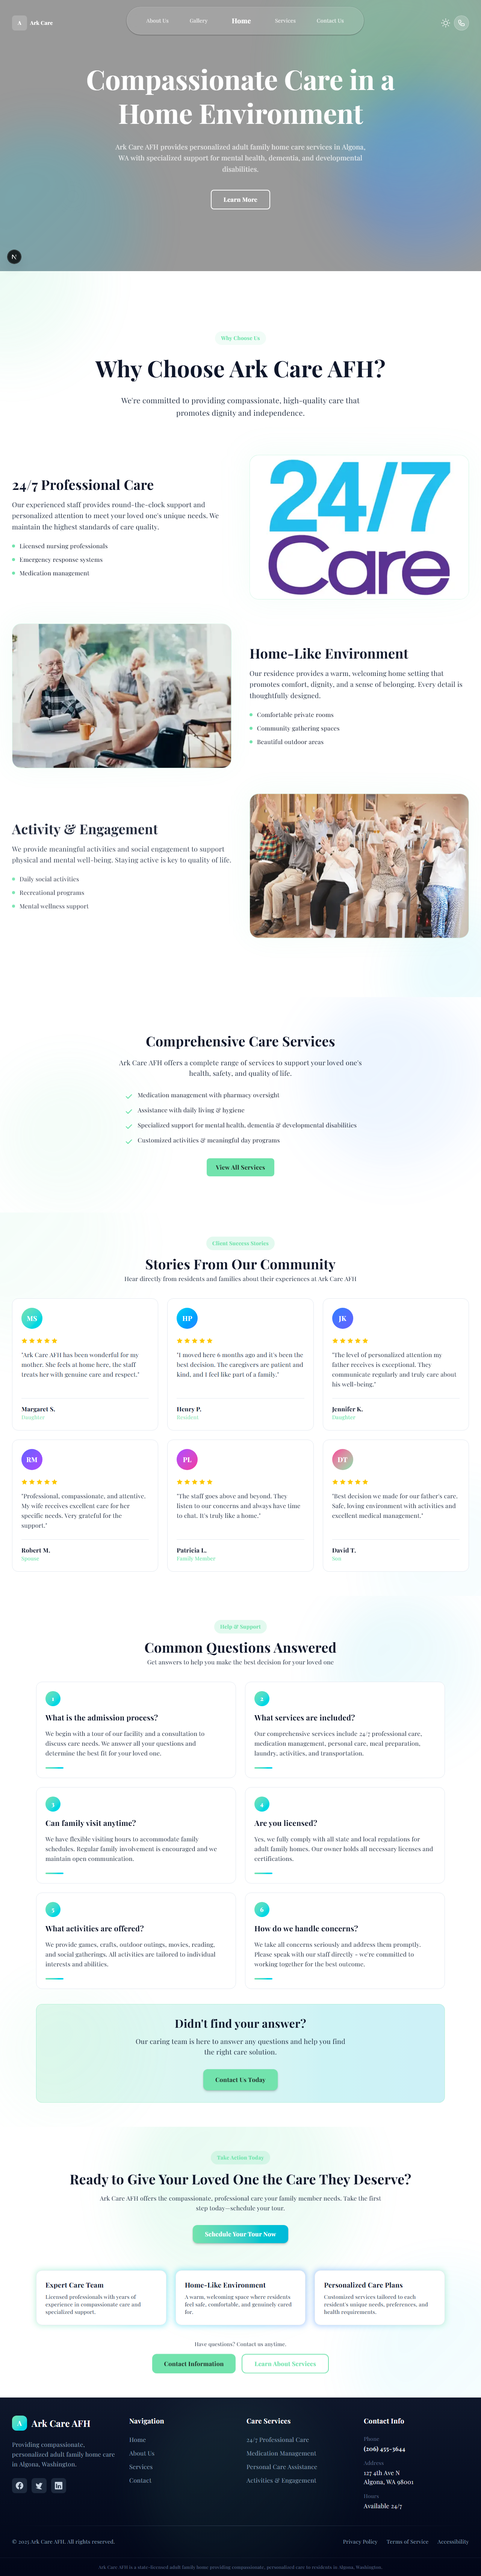
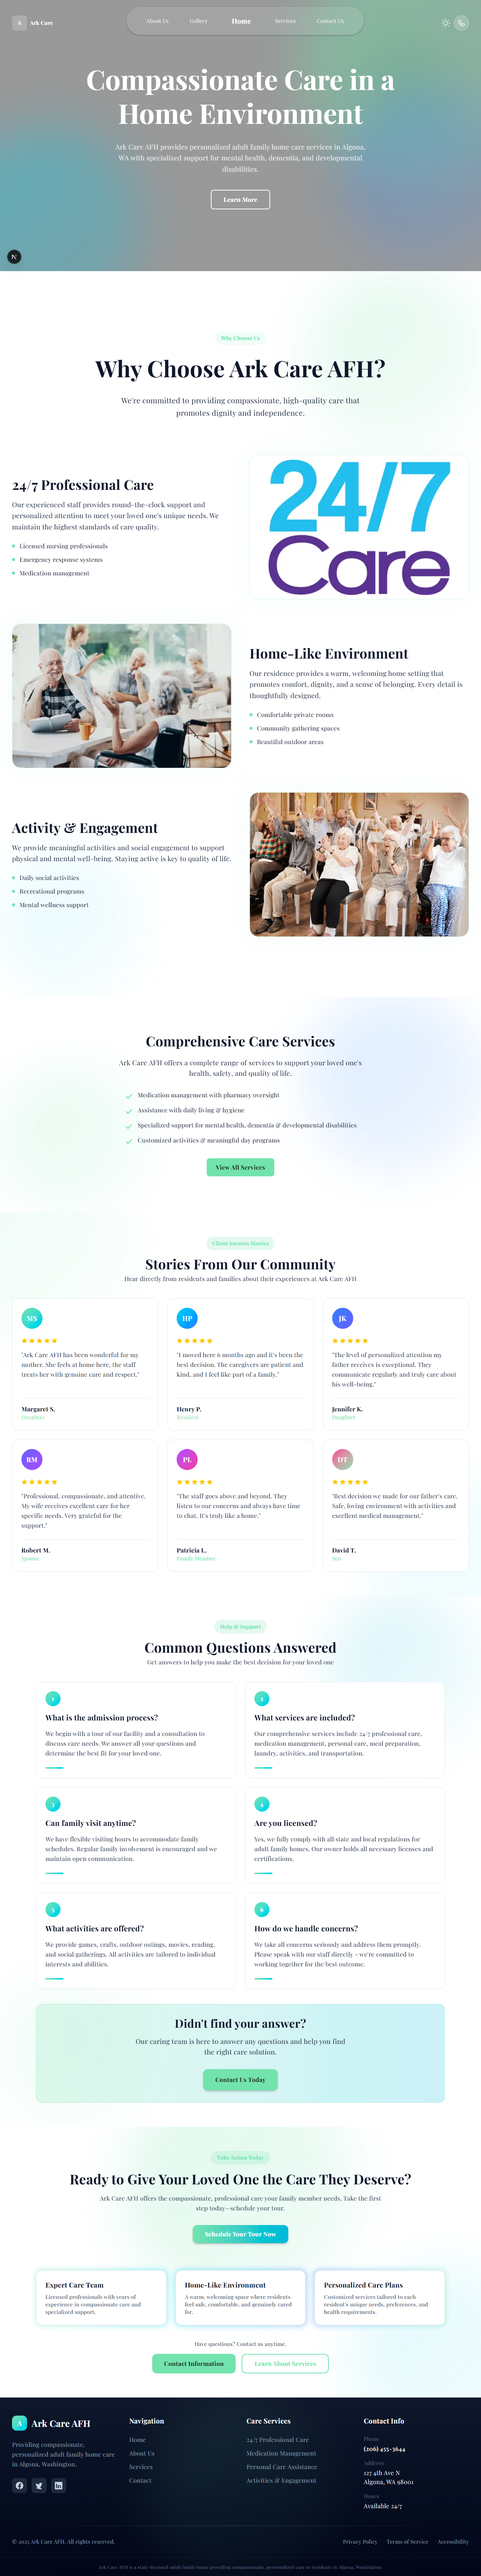
Update Why Choose section background to match Comprehensive Services style
Changed dark mode background from slate-950 to slate-900 and updated animated orbs positioning to be consistent with the Comprehensive Care Services section. This creates a cohesive visual experience across both sections in dark mode.

Changes:
- Updated section background: bg-white dark:bg-slate-900
- Repositioned animated orbs to top-right and bottom-left
- Adjusted orb opacity and sizes for consistency
- Updated animation delays to match other sections

🤖 Generated with Claude Code

Changed region(s): [[0.5, 0.3114, 0.9688, 0.3736], [0.0312, 0.3114, 0.3125, 0.3425]]

diff --git a/ark-care-afh/src/app/page.tsx b/ark-care-afh/src/app/page.tsx
@@ -98,10 +98,10 @@ export default function Home() {
       </section>
 
       {/* Key Benefits Section - Brand New Design */}
-      <section className="relative py-20 md:py-40 overflow-hidden bg-white dark:bg-slate-950" data-section="why-choose">
+      <section className="relative py-20 md:py-40 overflow-hidden bg-white dark:bg-slate-900" data-section="why-choose">
         {/* Animated Background Orbs */}
-        <div className="absolute -top-40 -left-40 w-[400px] h-[400px] bg-gradient-to-br from-primary/30 to-primary/10 rounded-full blur-3xl animate-pulse-glow pointer-events-none z-0" style={{animationDelay: '0.2s'}} />
-        <div className="absolute -bottom-32 -right-32 w-[350px] h-[350px] bg-gradient-to-br from-cyan-400/25 to-cyan-500/10 rounded-full blur-3xl animate-pulse-glow pointer-events-none z-0" style={{animationDelay: '0.7s'}} />
+        <div className="absolute top-0 right-0 w-[450px] h-[450px] bg-gradient-to-br from-primary/25 to-primary/10 rounded-full blur-3xl animate-pulse-glow pointer-events-none z-0" style={{animationDelay: '0.4s'}} />
+        <div className="absolute bottom-0 left-0 w-[380px] h-[380px] bg-gradient-to-br from-cyan-400/15 to-cyan-500/5 rounded-full blur-3xl animate-pulse-glow pointer-events-none z-0" style={{animationDelay: '0.9s'}} />
 
         <div className="max-w-7xl mx-auto px-4 sm:px-6 lg:px-8 relative z-10">
           {/* Header */}
